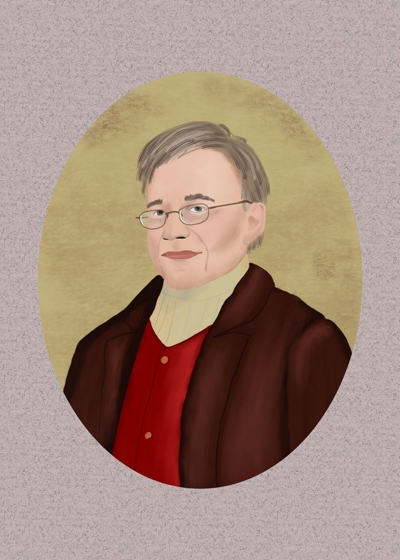
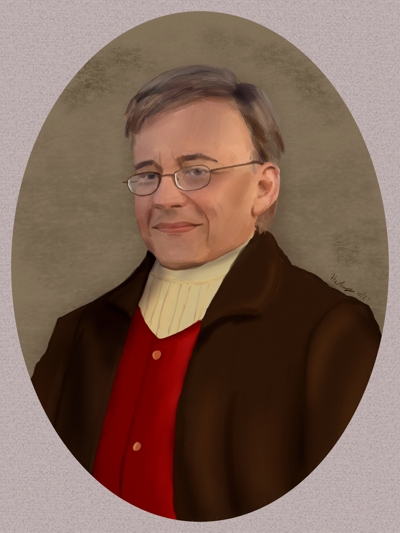
Updated hobbit portraits

diff --git a/_other/hobbit-parents.md b/_other/hobbit-parents.md
@@ -1,30 +1,31 @@
 ---
 title: "Hobbit Parents"
 author: Creative
-date: 2018-10-30
+date: 2021-10-13
 author_profile: true
 layout: archive
 excerpt: "Portraits of my parents in the style of Bungo and Belladonna Baggins."
 header:
   teaser: https://emhastings.github.io/images/other/both.jpg
 flexgallery:
+  - aspect: "0.7505"
+    url: https://emhastings.github.io/images/other/mama.jpg
+    image_path: https://emhastings.github.io/images/other/mama-th.jpg
+    alt: "Updated portrait of Emily's mom."  
+  - aspect: "0.7505"
+    url: https://emhastings.github.io/images/other/dad.jpg
+    image_path: https://emhastings.github.io/images/other/dad-th.jpg
+    alt: "Updated portrait of Emily's dad." 
   - aspect: "1.3333"
     url: https://emhastings.github.io/images/other/both.jpg
     image_path: https://emhastings.github.io/images/other/both-th.jpg
-    alt: "Portraits"    
-  - aspect: "0.7143"
-    url: https://emhastings.github.io/images/other/mama.jpg
-    image_path: https://emhastings.github.io/images/other/mama-th.jpg
-    alt: "Portraits"  
-  - aspect: "0.7143"
-    url: https://emhastings.github.io/images/other/dad.jpg
-    image_path: https://emhastings.github.io/images/other/dad-th.jpg
-    alt: "Portraits"     
+    alt: "Original portraits framed."    
     end_row: "true"
 
 ---
 
 Portraits I painted of my parents to look like those of Bungo and Belladonna Baggins hanging above the fireplace of Bag End in the Hobbit and Lord of the Rings movies (see image below by Criatura del Bosque on Flickr).
+Originals (right) were painted in 2018, updated versions (left) in 2021.
 
 {% include flexgallery caption="" %}
 
